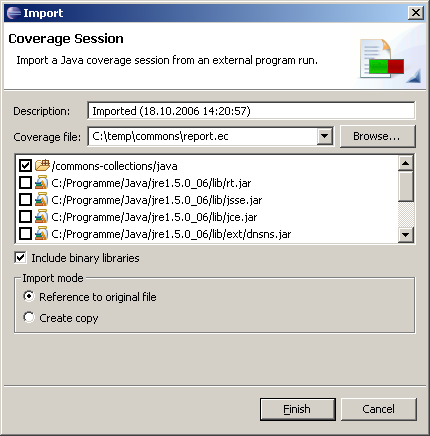
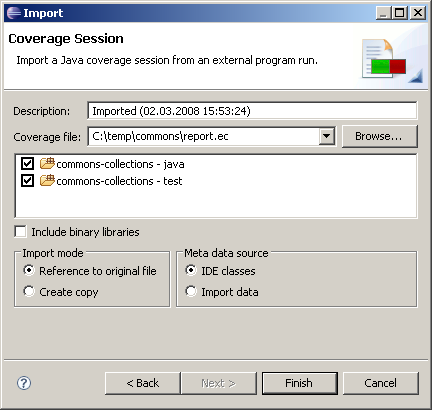
SF #1899238: Documentation for new import option.

Changed region(s): [[0.0, 0.0878, 0.9977, 0.7902], [0.0, 0.0, 0.9977, 0.1756], [0.0, 0.878, 0.9977, 0.9659]]

diff --git a/com.mountainminds.eclemma.doc/pages/importexport.html b/com.mountainminds.eclemma.doc/pages/importexport.html
@@ -31,7 +31,7 @@
 </p>
 
 <p>
-  <img src="images/importdialog.png" alt="Import Dialog" width="430" height="436" />
+  <img src="images/importdialog.png" alt="Import Dialog" width="432" height="410" />
 </p>
 
 <p>
@@ -45,10 +45,19 @@
 </ul>
 
 <p>
-  <b>Tip:</b> If you keep a reference to the original coverage file (check the
-  corresponding import option) you can simply reload the coverage data after a
-  new program run. For this use the <i>Refresh</i> option from the context menu
-  of the <i>Coverage</i> view or simply hit the F5 key.
+  If you keep a reference to the original coverage file (check the corresponding
+  import option) you can simply reload the coverage data after a new program
+  run. For this use the <i>Refresh</i> option from the context menu of the
+  <i>Coverage</i> view or simply hit the <code>F5</code> key.
+</p>
+
+<p>
+  <b>Warning:</b> Coverage analysis is based on runtime coverage data plus so
+  called <i>Meta data</i> derived from the corresponding class files. For the
+  import you can select whether the Meta data should be taken from the imported
+  EMMA session file or from the classes compiled locally within your workbench.
+  If the Meta data and runtime coverage data are not based on the same class
+  files, no or improper coverage information will be visualized.  
 </p>
 
 <h3>Session Export</h3>
